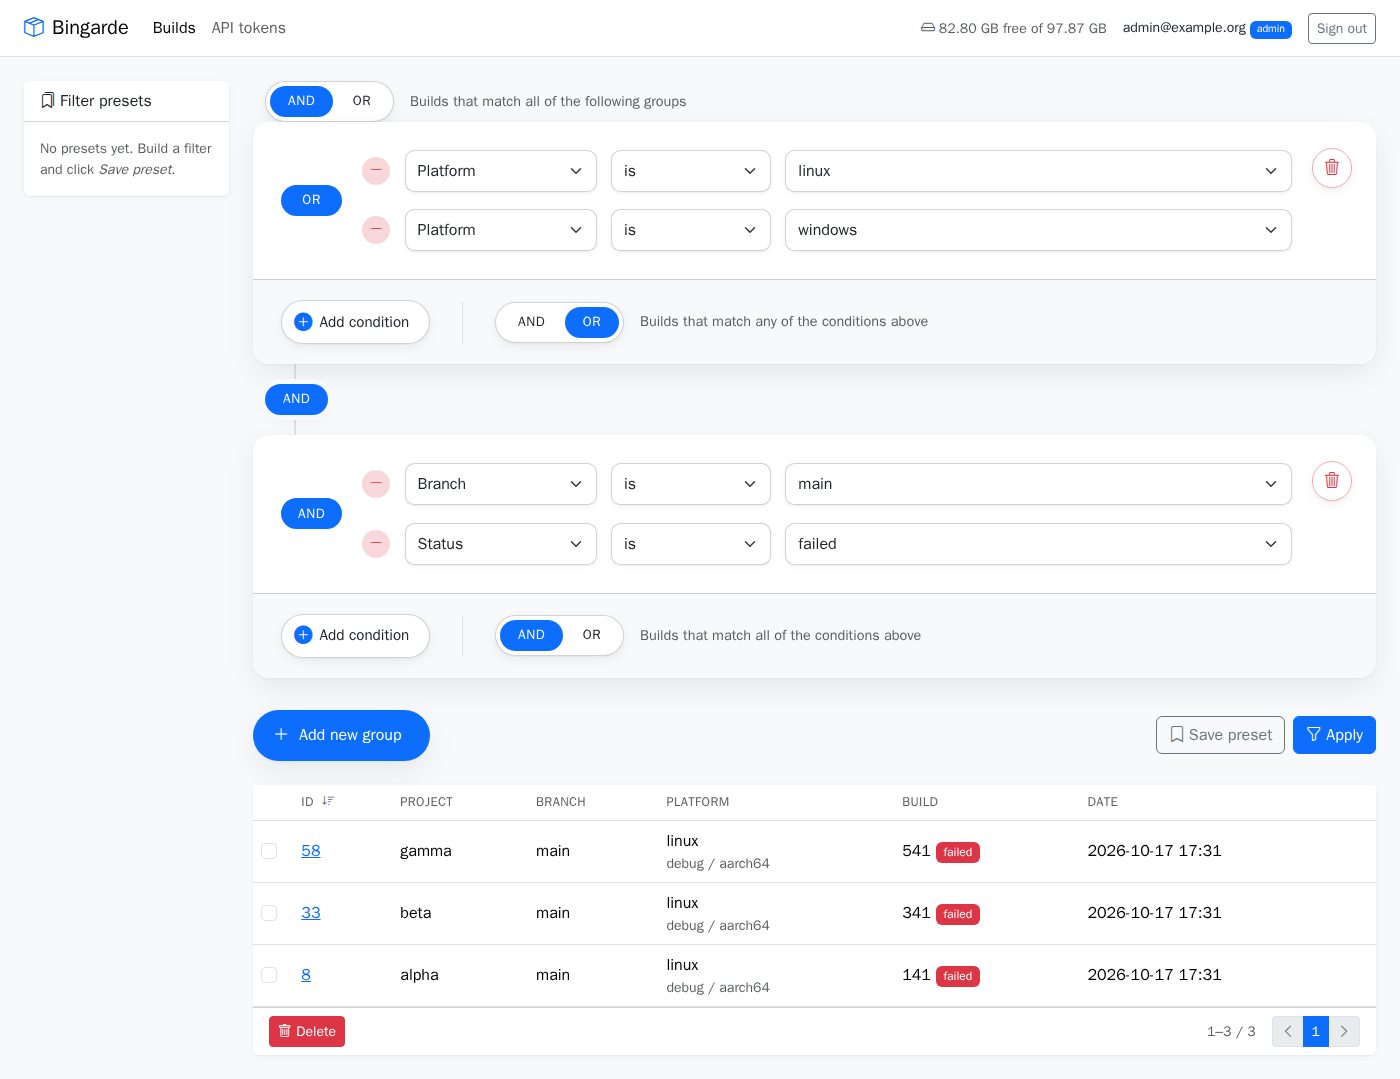
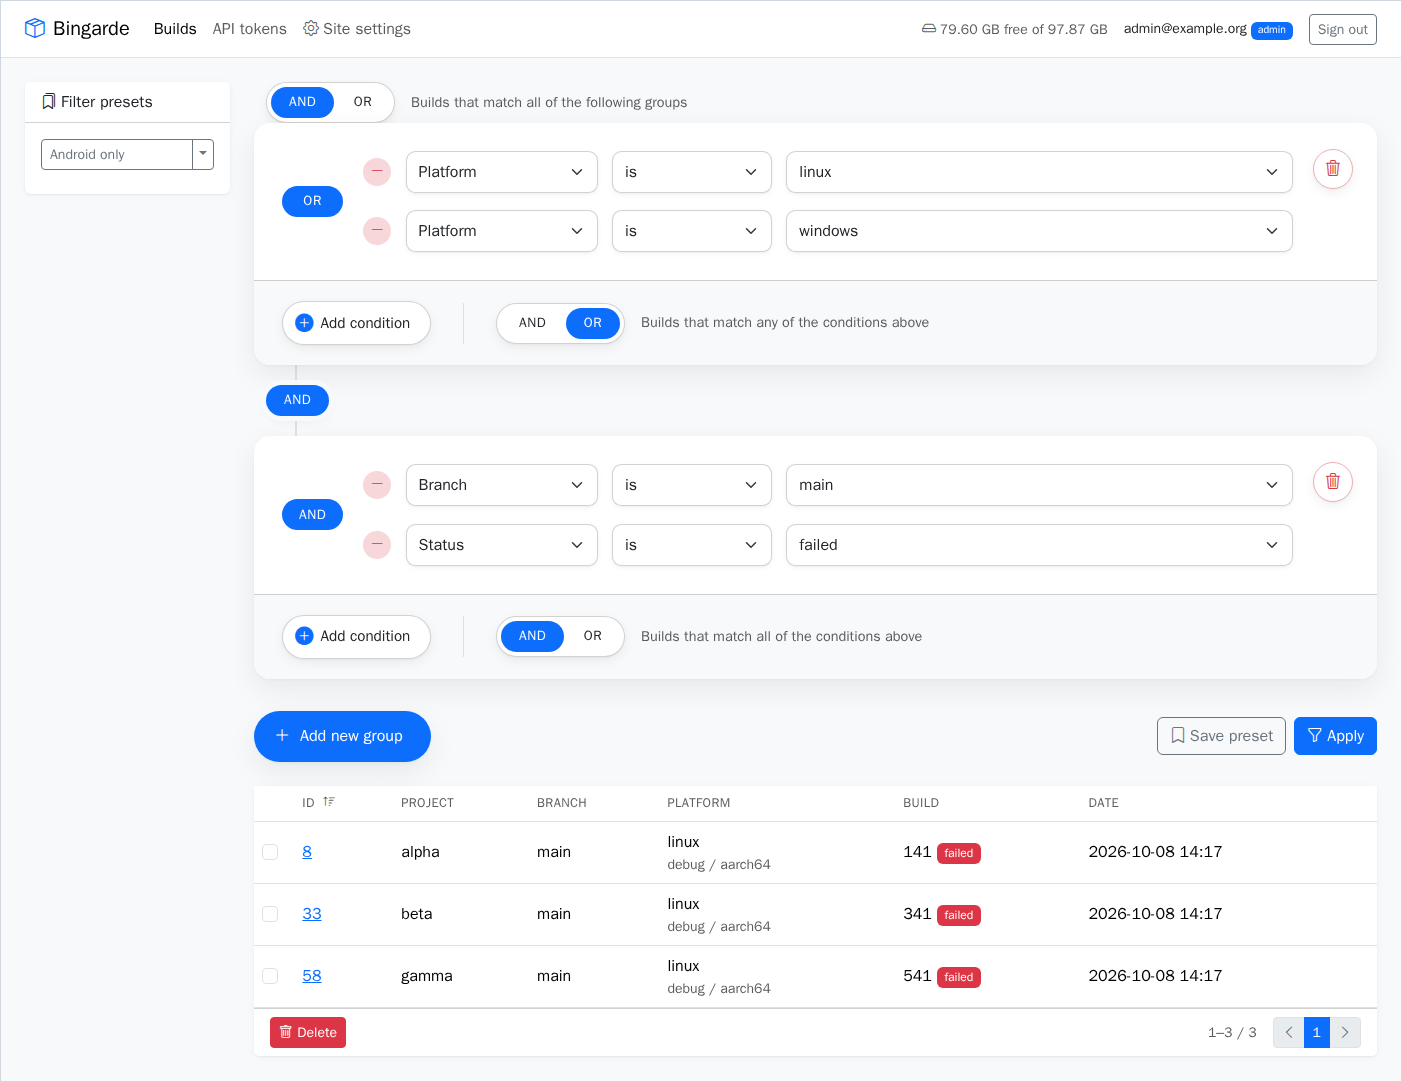
Retake screenshots and add pictures to access.md
The README pictures show Site settings and the new build page; every chapter of access.md has one.

diff --git a/docs/access.md b/docs/access.md
@@ -9,6 +9,8 @@ downloads and preset e-mails all follow the same rules.
 Admins manage everything under **Site settings** in the menu bar (`/admin`), on its **Users**
 and **Groups** pages, or through the [admin API](api.md#users-and-groups).
 
+![Site settings: the overview with users, groups and public downloads](screenshots/access-settings.png)
+
 ## Releases for some, everything for others
 
 The usual setup: the team sees every build, including nightlies and feature branches, while
@@ -26,6 +28,8 @@ number, ID, date), joined with AND or OR. While you edit, the page shows how man
 rule finds now, with **Show them** to open them in the build list. **Start from a filter
 preset** copies a saved preset into the rule; later changes to the preset do not change the
 rule. **Edit** shows a rule in the filter again. A rule with no conditions finds every build.
+
+![A group's rule in the filter editor, with the live count of the builds it finds](screenshots/access-rule.png)
 
 Text conditions ignore upper and lower case. Rules are checked on every request, so a rule
 like "created in the last 30 days" moves with time, and a new build is visible at once to
@@ -47,12 +51,16 @@ it does not need to be the user who created the build. The new audience sees the
 and its history gets a line "promoted from main to release/1.4 by ...". If the release branch
 already has the same build, the answer is `409`.
 
+![Promote to branch on a build page](screenshots/access-promote.png)
+
 ## Public downloads
 
 The built-in group **Public** is for visitors who are not signed in: anyone on the internet.
 Its rules decide which builds they may open and download, without an account. A new server's
 Public group has no rules, so nothing is public until an admin adds one. Its page says in red
 that its rules open builds to everyone, and a rule with no conditions asks for confirmation.
+
+![The Public group with its warning and a rule for release branches](screenshots/access-public.png)
 
 For example, a rule "branch starts with `release/`" puts every release online. Another site
 can then link to them:
@@ -70,6 +78,8 @@ What visitors get:
   admins only anyway.
 - Visitors get no session or cookie.
 
+![A public release as a visitor sees it: download buttons, no history, no CI link](screenshots/access-visitor.png)
+
 Signed-in users have the Public rules too, on top of their own groups: someone with no
 groups sees the public builds. Public rules only read, and the group has no members, cannot
 be renamed or deleted, and new users do not join it. To stop public downloads, remove its
@@ -83,6 +93,8 @@ Downloads are limited per address in nginx: 2 a second, with bursts of 30; more 
 may change every build, delete builds and files, and they alone see the user and group lists
 and manage them. Members of other groups get `403` on those pages and API calls, and nothing
 else in Bingarde shows them other users' e-mails or group names.
+
+![The Groups page: Admin, Public and the groups with their rules](screenshots/access-groups.png)
 
 There is always at least one active admin: the last one cannot be disabled, deleted or taken
 out of Admin, and nobody can disable or delete themselves.
@@ -109,6 +121,8 @@ This happens once, when the account is made. An admin can remove someone from su
 and they are not added again at the next sign-in. **Add matching existing users now** on the
 group page applies the setting to accounts that already exist. The Admin group cannot have it.
 
+![A group's New users setting: people whose e-mail ends with partner.test](screenshots/access-new-users.png)
+
 A new server has the group **Releases** (read: branch starts with `release/` or with
 `release-`; everyone who signs in joins), so new people see the official releases at once.
 Change its rule if your release branches are named differently. If no group takes new users, the Users and
@@ -130,6 +144,8 @@ groups the admin gave it; the new-user groups are not added to it.
 | Disabled | Refused: "This account is disabled" |
 | Deleted | A new account: joins the new-user groups again |
 
+![The Users page: a user added by hand shows "never" until their first sign-in](screenshots/access-users.png)
+
 ## Users
 
 On a user's page an admin sets their groups, sees what they can see (and the build list as they
@@ -139,6 +155,8 @@ see it), revokes their tokens, and can:
 - **delete** them: the user, their tokens, presets and memberships go; their builds stay,
   without a creator.
 
+![A user's page: groups, what they can see, tokens and the danger zone](screenshots/access-user.png)
+
 ## Tokens
 
 A token's scope limits it further: a `read` token never writes, even for a user with write
@@ -147,6 +165,8 @@ user created (or any build for admins); promotion is the exception above. A chan
 before and after: a writer may not change a build so that their rule no longer finds it, for
 example mark it `complete` when their rule is "status is failed". Changing groups applies to
 existing tokens and sessions at once.
+
+![The API tokens page of a user who may only read release builds](screenshots/access-tokens.png)
 
 ## Upgrading from version 1
 
@@ -161,6 +181,8 @@ reads them once and turns them into data:
 - `BLOCKED_EMAILS` → disabled users;
 - every existing user joins **Releases** (read builds whose branch starts with `release/` or
   `release-`).
+
+![The Groups page right after upgrading: Admin, Releases and Writers](screenshots/access-upgrade.png)
 
 So after the upgrade, people who are not writers see **only release builds** until an
 admin gives them more, for example a group with a `read` rule without conditions. Writers and CI tokens keep

diff --git a/README.md b/README.md
@@ -47,9 +47,9 @@ download them without an account.
 
 | Build page | Failed build |
 |---|---|
-| ![Windows build with exe, pdb, test report and log](docs/screenshots/build-windows.png) | ![Failed Linux build with its compiler log](docs/screenshots/build-failed.png) |
+| ![Windows release build with exe, pdb and log, the groups that see it and Promote](docs/screenshots/build-windows.png) | ![Failed Linux build with its compiler log](docs/screenshots/build-failed.png) |
 
-The demo data in the screenshots is real: a small C project built with MSVC (Windows),
+The demo data in the screenshots is real: a small C project built with MSVC or clang (Windows),
 gcc (Linux x86_64 and aarch64) and Xcode (iOS, macOS). Its sources and build scripts
 live in a separate repo, linked here as the [`demo/`](demo/) submodule.
 
